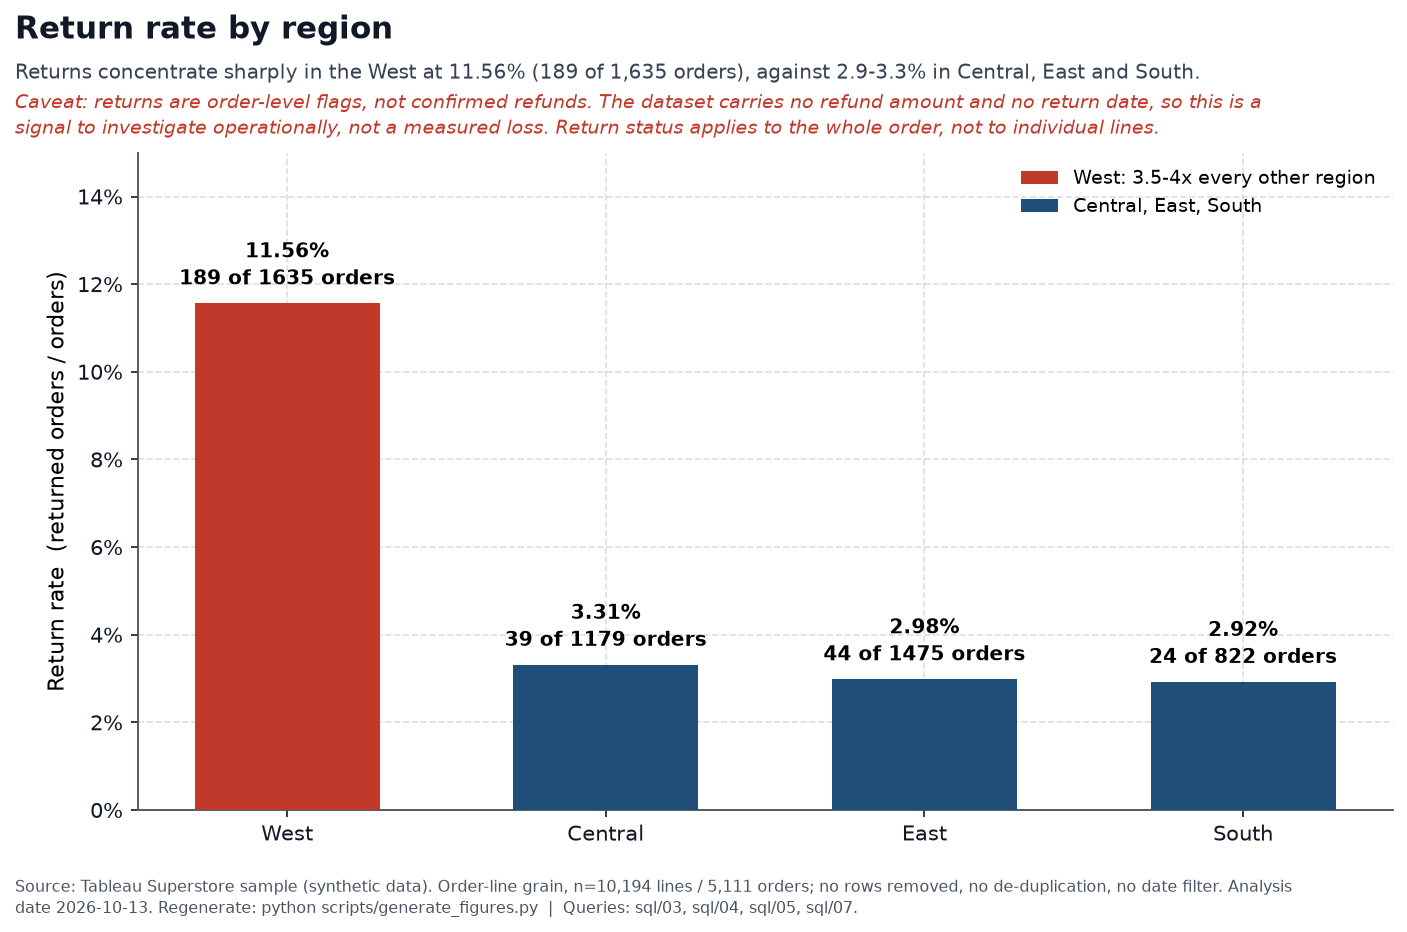
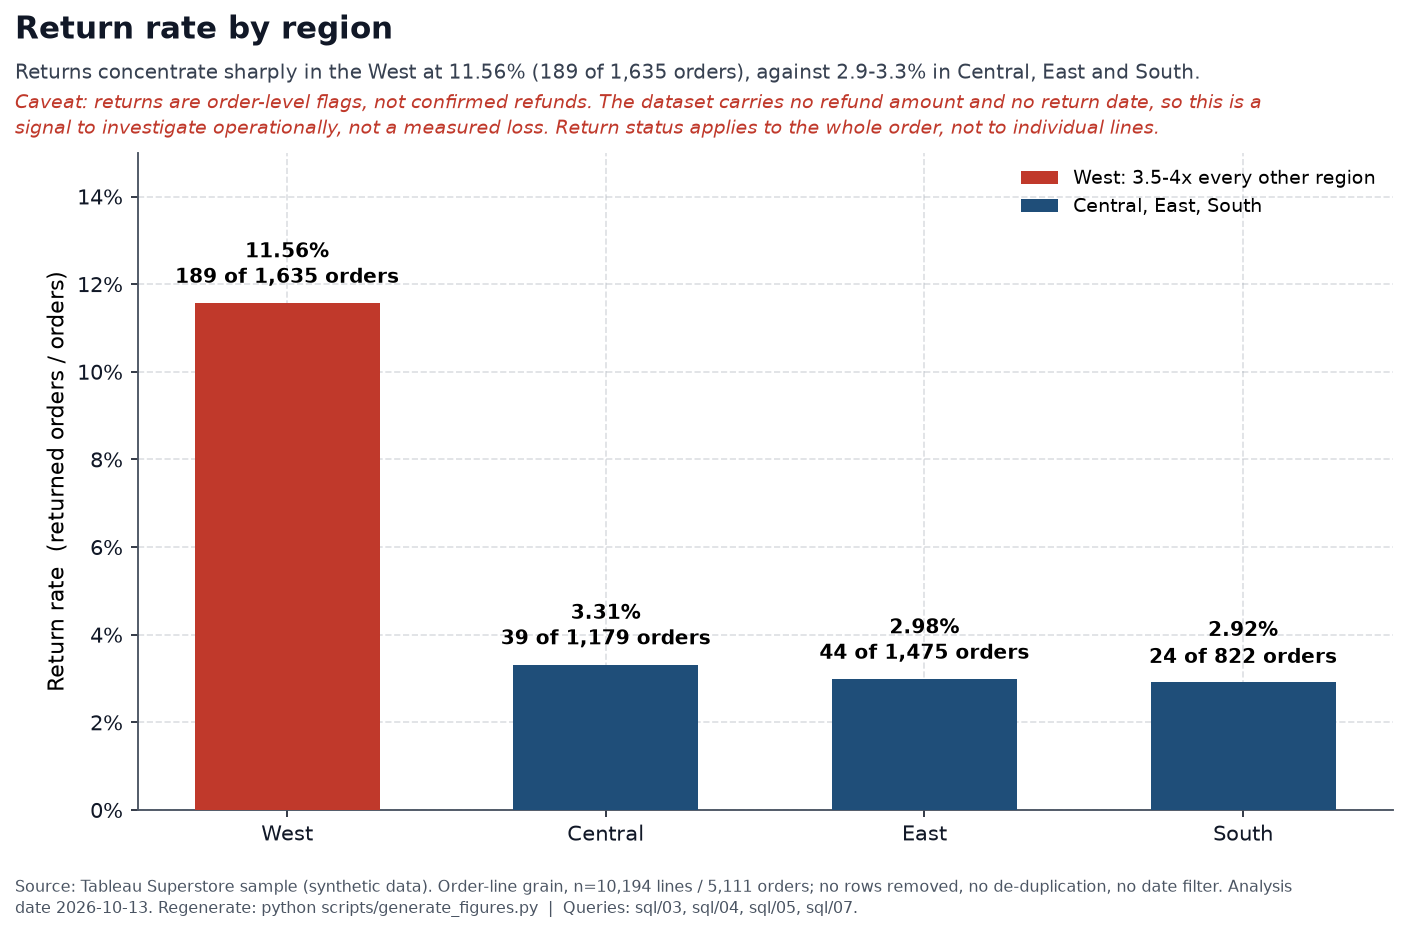
fix: correct discount-band labels and format return-rate counts

Changed region(s): [[0.3667, 0.6534, 0.5195, 0.7157], [0.5807, 0.6845, 0.7335, 0.7157], [0.1222, 0.28, 0.2751, 0.3112]]

diff --git a/scripts/generate_figures.py b/scripts/generate_figures.py
@@ -72,6 +72,34 @@ EXPECTED_CATEGORY_MARGIN = {"Technology": 0.1745, "Office Supplies": 0.1722, "Fu
 EXPECTED_BAND_MARGIN = [0.2956, 0.1656, 0.1154, -0.1006, -0.1945, -0.3571, -0.8675, -0.9876, -1.8001]
 EXPECTED_REGION_RATE = {"West": 0.1156, "Central": 0.0331, "East": 0.0298, "South": 0.0292}
 
+# Discount bands are defined in sql/05_discount_analysis.sql as nine fixed
+# categories: no discount, then eight 10-percentage-point half-open intervals.
+# The labels below are the documented band definitions, used to validate both
+# the SQL output and the labels rendered on the chart.
+DISCOUNT_BAND_WIDTH = 0.10
+EXPECTED_BAND_SQL_LABELS = [
+    "0.00 (no discount)",
+    "(0.00, 0.10]",
+    "(0.10, 0.20]",
+    "(0.20, 0.30]",
+    "(0.30, 0.40]",
+    "(0.40, 0.50]",
+    "(0.50, 0.60]",
+    "(0.60, 0.70]",
+    "(0.70, 0.80]",
+]
+EXPECTED_BAND_LABELS = [
+    "0% (none)",
+    "(0%, 10%]",
+    "(10%, 20%]",
+    "(20%, 30%]",
+    "(30%, 40%]",
+    "(40%, 50%]",
+    "(50%, 60%]",
+    "(60%, 70%]",
+    "(70%, 80%]",
+]
+
 # Shared palette: keeps the four charts visually consistent.
 COLOR_POSITIVE = "#2f7d4f"
 COLOR_NEGATIVE = "#c0392b"
@@ -212,10 +240,16 @@ def dollars(value: float) -> str:
     return f"${value:,.0f}"
 
 
-def discount_band_label(band_order: int, lower: float, upper: float) -> str:
-    """Compact axis label for a half-open discount band (lower exclusive)."""
+def discount_band_label(band_order: int) -> str:
+    """Compact axis label for a half-open discount band (lower bound exclusive).
+
+    Boundaries come from the fixed band definition (10-point intervals starting
+    at zero), never from the observed minimum/maximum discount in each band.
+    """
     if band_order == 0:
         return "0% (none)"
+    lower = (band_order - 1) * DISCOUNT_BAND_WIDTH
+    upper = band_order * DISCOUNT_BAND_WIDTH
     return f"({lower:.0%}, {upper:.0%}]"
 
 
@@ -452,8 +486,7 @@ def chart_discount_bands(bands: pd.DataFrame) -> Path:
     axis.axhline(0, color="#111827", lw=1.0, zorder=4)
     axis.set_xticks(positions)
     axis.set_xticklabels(
-        [discount_band_label(int(row.band_order), row.band_discount_min, row.band_discount_max)
-         for row in data.itertuples()],
+        [discount_band_label(int(row.band_order)) for row in data.itertuples()],
         fontsize=9.5,
     )
     axis.set_ylim(-215, 55)
@@ -509,7 +542,7 @@ def chart_region_returns(regions: pd.DataFrame) -> Path:
         axis.text(
             position,
             row["return_rate"] * 100 + 0.3,
-            f"{row['return_rate']:.2%}\n{int(row['returned_orders'])} of {int(row['orders'])} orders",
+            f"{row['return_rate']:.2%}\n{int(row['returned_orders']):,} of {int(row['orders']):,} orders",
             ha="center",
             va="bottom",
             fontsize=9.6,
@@ -601,6 +634,14 @@ def validate(
             f"category margins drifted: {observed_categories}")
 
     require(len(bands) == 9, f"expected 9 discount bands, found {len(bands)}")
+    require(list(bands["band_order"]) == list(range(9)),
+            f"unexpected discount band order: {list(bands['band_order'])}")
+    observed_band_labels = list(bands["discount_band"])
+    require(observed_band_labels == EXPECTED_BAND_SQL_LABELS,
+            f"discount band definitions drifted: {observed_band_labels}")
+    rendered_band_labels = [discount_band_label(int(order)) for order in bands["band_order"]]
+    require(rendered_band_labels == EXPECTED_BAND_LABELS,
+            f"rendered discount band labels do not match the documented bands: {rendered_band_labels}")
     require(int(bands["order_lines"].sum()) == EXPECTED_TOTAL_LINES, "discount bands do not cover every line")
     observed_bands = bands["profit_margin"].tolist()
     require(observed_bands == EXPECTED_BAND_MARGIN, f"discount band margins drifted: {observed_bands}")
